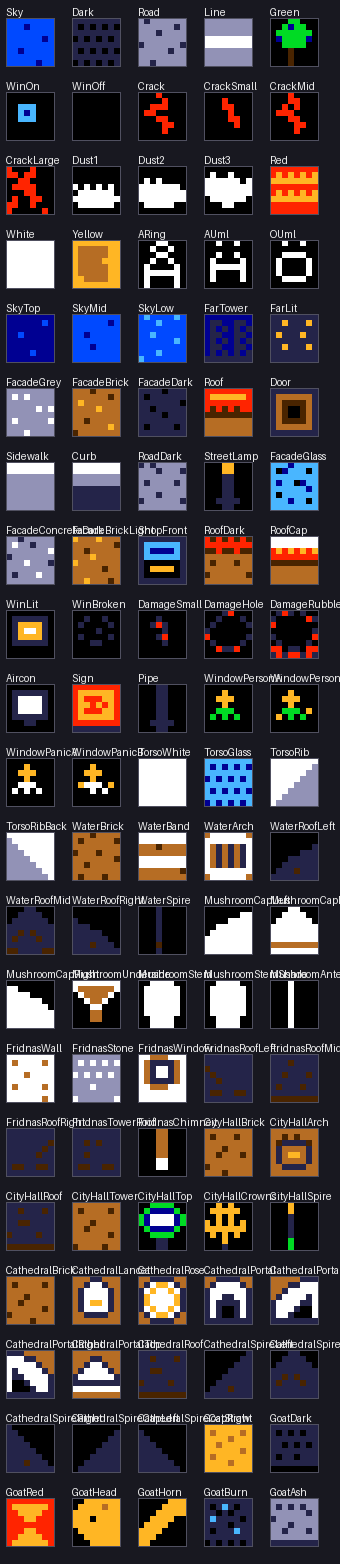
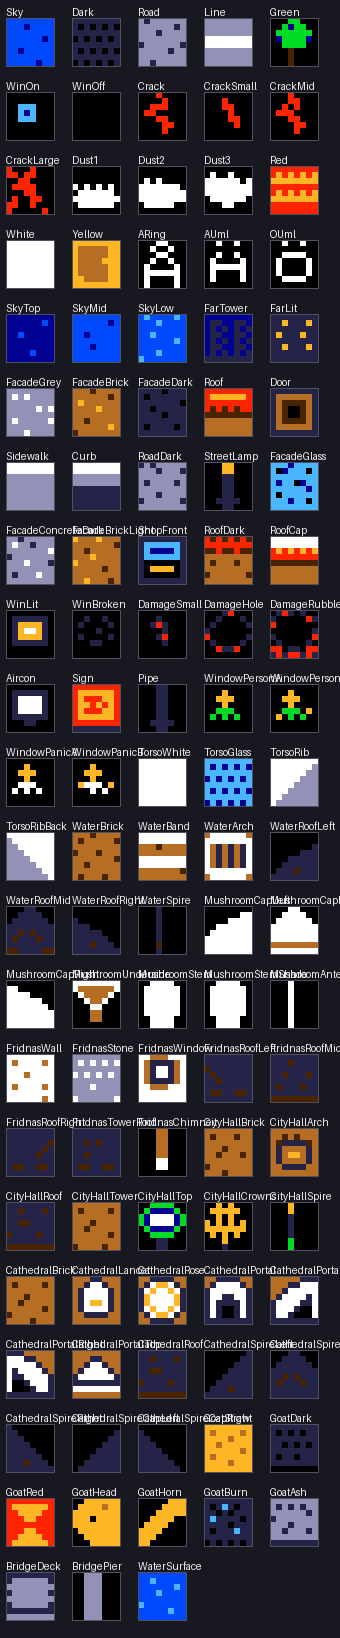
Add Sundsvall bridge stage

diff --git a/src/main.c b/src/main.c
@@ -18,9 +18,12 @@
 #define MAX_DAMAGE_MARKS 16
 #define MAX_WINDOW_PEOPLE 4
 #define CITY_GAVLE 6
+#define CITY_SUNDSVALL 7
 #define GAVLE_GOAT_INDEX 1
 #define GAVLE_ARSONIST_SPAWN_FRAMES 900
 #define GAVLE_ARSONIST_IGNITE_FRAMES 150
+#define SUNDSVALL_BRIDGE_STRESS_FRAMES 120
+#define SUNDSVALL_WATER_DAMAGE_FRAMES 90
 #define BUILDING_CRACK_STEP_FRAMES 8
 #define BUILDING_COLLAPSE_STEP_FRAMES 6
 #define PLAYER_STUN_FRAMES 90
@@ -182,6 +185,9 @@
 #define TILE_GOAT_HORN       (TILE_USER_INDEX + 103)
 #define TILE_GOAT_BURN       (TILE_USER_INDEX + 104)
 #define TILE_GOAT_ASH        (TILE_USER_INDEX + 105)
+#define TILE_BRIDGE_DECK     (TILE_USER_INDEX + 106)
+#define TILE_BRIDGE_PIER     (TILE_USER_INDEX + 107)
+#define TILE_WATER_SURFACE   (TILE_USER_INDEX + 108)
 
 typedef enum
 {
@@ -418,6 +424,9 @@ static u8 currentCity = 0;
 static u8 selectedCity = 0;
 static u8 playerHealth = PLAYER_MAX_HEALTH;
 static u8 invulnerableTimer = 0;
+static u8 bridgeStressTimer = 0;
+static u8 waterDamageTimer = 0;
+static bool playerInWater = FALSE;
 static u16 frame = 0;
 static u16 score = 0;
 static u16 previousJoy = 0;
@@ -643,6 +652,9 @@ static void loadTiles(void)
     VDP_loadTileData(tileGoatHorn, TILE_GOAT_HORN, 1, DMA);
     VDP_loadTileData(tileGoatBurn, TILE_GOAT_BURN, 1, DMA);
     VDP_loadTileData(tileGoatAsh, TILE_GOAT_ASH, 1, DMA);
+    VDP_loadTileData(tileBridgeDeck, TILE_BRIDGE_DECK, 1, DMA);
+    VDP_loadTileData(tileBridgePier, TILE_BRIDGE_PIER, 1, DMA);
+    VDP_loadTileData(tileWaterSurface, TILE_WATER_SURFACE, 1, DMA);
 }
 
 static void playTone(u16 tone, u8 length)
@@ -734,6 +746,18 @@ static void drawSkyline(void)
 
 static void drawRoad(void)
 {
+    if (currentCity == CITY_SUNDSVALL)
+    {
+        VDP_fillTileMapRect(BG_B, attr(PAL0, TILE_WATER_SURFACE), 0, FLOOR_Y, SCREEN_TILES_W, SCREEN_TILES_H - FLOOR_Y);
+        VDP_fillTileMapRect(BG_B, attr(PAL0, TILE_BRIDGE_DECK), 0, FLOOR_Y, SCREEN_TILES_W, 1);
+        VDP_fillTileMapRect(BG_B, attr(PAL0, TILE_LINE), 0, FLOOR_Y - 1, SCREEN_TILES_W, 1);
+        for (u8 x = 3; x < SCREEN_TILES_W; x += 7)
+        {
+            VDP_fillTileMapRect(BG_B, attr(PAL0, TILE_BRIDGE_PIER), x, FLOOR_Y + 1, 1, SCREEN_TILES_H - FLOOR_Y - 1);
+        }
+        return;
+    }
+
     VDP_fillTileMapRect(BG_B, attr(PAL0, TILE_ROAD_DARK), 0, FLOOR_Y, SCREEN_TILES_W, 4);
     for (u8 x = 1; x < SCREEN_TILES_W; x += 6)
     {
@@ -833,6 +857,15 @@ static void initBuildings(void)
             buildings[i].x = 10;
             buildings[i].w = 14;
             buildings[i].h = 13;
+        }
+        if (currentCity == CITY_SUNDSVALL)
+        {
+            const s16 sx[MAX_BUILDINGS] = {4, 11, 18, 25, 32};
+            const u8 sw[MAX_BUILDINGS] = {5, 6, 5, 6, 5};
+            const u8 sh[MAX_BUILDINGS] = {9, 12, 10, 11, 9};
+            buildings[i].x = sx[i];
+            buildings[i].w = sw[i];
+            buildings[i].h = sh[i];
         }
         if (currentCity == 0 && i == 1)
         {
@@ -2182,6 +2215,9 @@ static void drawIntro(void)
 static void startCity(void)
 {
     gavleGoatBurned = FALSE;
+    bridgeStressTimer = 0;
+    waterDamageTimer = 0;
+    playerInWater = FALSE;
     initBuildings();
     resetThreats();
     player.x = 16;
@@ -3160,6 +3196,7 @@ static void updatePlayer(u16 joy, u16 pressed)
     bool moved = FALSE;
     bool bounce = FALSE;
     const bool bouncing = (joy & BUTTON_A) && !player.grounded;
+    const s16 walkStep = (currentCity == CITY_SUNDSVALL && playerInWater) ? 1 : 2;
 
     if (player.stunTimer > 0)
     {
@@ -3178,13 +3215,13 @@ static void updatePlayer(u16 joy, u16 pressed)
 
     if (joy & BUTTON_LEFT)
     {
-        player.x -= 2;
+        player.x -= walkStep;
         player.dir = -1;
         moved = TRUE;
     }
     if (joy & BUTTON_RIGHT)
     {
-        player.x += 2;
+        player.x += walkStep;
         player.dir = 1;
         moved = TRUE;
     }
@@ -3192,7 +3229,7 @@ static void updatePlayer(u16 joy, u16 pressed)
     climbContact = getClimbContact();
     roofContact = getRoofContact();
     const bool towerFacadeAtRoof = climbContact.active && isCathedralTowerBuilding(&buildings[climbContact.building]);
-    onFacade = !bouncing && climbContact.active && player.y < PLAYER_GROUND_Y && (!roofContact.active || towerFacadeAtRoof);
+    onFacade = !bouncing && climbContact.active && (player.y < PLAYER_GROUND_Y || playerInWater) && (!roofContact.active || towerFacadeAtRoof);
     climbing = !bouncing && (joy & BUTTON_UP) && climbContact.active;
 
     if (towerFacadeAtRoof && roofContact.active && !climbing)
@@ -3221,11 +3258,19 @@ static void updatePlayer(u16 joy, u16 pressed)
         player.y = roofContact.y;
         player.vy = 0;
         player.grounded = TRUE;
+        playerInWater = FALSE;
+    }
+    if (playerInWater && !onFacade && !climbing && !onRoof)
+    {
+        player.y = PLAYER_GROUND_Y + 10;
+        player.vy = 0;
+        player.grounded = TRUE;
     }
     player.walking = moved && player.grounded;
 
     if (onFacade || climbing)
     {
+        playerInWater = FALSE;
         player.x = climbContact.snapX;
         player.dir = climbContact.attackDir;
         player.vy = 0;
@@ -3283,6 +3328,7 @@ static void updatePlayer(u16 joy, u16 pressed)
     }
     if ((pressed & BUTTON_A) && player.grounded)
     {
+        playerInWater = FALSE;
         player.vy = PLAYER_JUMP_VY;
         player.gravityTimer = 0;
         player.landTimer = 0;
@@ -3368,6 +3414,47 @@ static void updatePlayer(u16 joy, u16 pressed)
         player.grounded = FALSE;
         player.landTimer = 0;
         playTone(220, 4);
+    }
+
+    if (currentCity == CITY_SUNDSVALL)
+    {
+        if (!playerInWater && player.grounded && player.y >= PLAYER_GROUND_Y - 2 && !moved && !player.punching)
+        {
+            if (bridgeStressTimer < SUNDSVALL_BRIDGE_STRESS_FRAMES) bridgeStressTimer++;
+            if (bridgeStressTimer >= SUNDSVALL_BRIDGE_STRESS_FRAMES)
+            {
+                bridgeStressTimer = 0;
+                playerInWater = TRUE;
+                player.y = PLAYER_GROUND_Y + 10;
+                player.vy = 0;
+                player.grounded = TRUE;
+                playTone(70, 16);
+            }
+        }
+        else if (!playerInWater)
+        {
+            bridgeStressTimer = 0;
+        }
+
+        if (playerInWater)
+        {
+            if (waterDamageTimer < SUNDSVALL_WATER_DAMAGE_FRAMES) waterDamageTimer++;
+            if (waterDamageTimer >= SUNDSVALL_WATER_DAMAGE_FRAMES)
+            {
+                waterDamageTimer = 0;
+                hitPlayer();
+            }
+        }
+        else
+        {
+            waterDamageTimer = 0;
+        }
+    }
+    else
+    {
+        bridgeStressTimer = 0;
+        waterDamageTimer = 0;
+        playerInWater = FALSE;
     }
 }
 

diff --git a/src/stage_tiles.h b/src/stage_tiles.h
@@ -126,5 +126,8 @@ static const u32 tileGoatHead[8] = {0x00DDDDDD,0x0DDDD7DD,0xDDDDDDDD,0xDDD0DDDD,
 static const u32 tileGoatHorn[8] = {0x00000DDD,0x0000DDDD,0x000DDDDD,0x00DDDD00,0x0DDDD000,0xDDDD0000,0xDDD00000,0xDD000000};
 static const u32 tileGoatBurn[8] = {0xBBBBBBBB,0xB0B6B0BB,0xBB0B0BBB,0xB6BBBB0B,0xBBBB0BBB,0xB0BBB6BB,0xBBBBBBBB,0x0B0B0B0B};
 static const u32 tileGoatAsh[8] = {0x33333333,0x3B3B3B33,0x333333B3,0xB3333333,0x333B3333,0x33B333B3,0x33333333,0xBBBBBBBB};
+static const u32 tileBridgeDeck[8] = {0xBBBBBBBB,0xB333333B,0x33333333,0xB333333B,0x33333333,0xB333333B,0xBBBBBBBB,0x33333333};
+static const u32 tileBridgePier[8] = {0x00333000,0x00333000,0x00333000,0x00333000,0x00333000,0x00333000,0x00333000,0x00333000};
+static const u32 tileWaterSurface[8] = {0x11111111,0x11611111,0x11111161,0x11161111,0x11111111,0x61111111,0x11111611,0x11111111};
 
 #endif